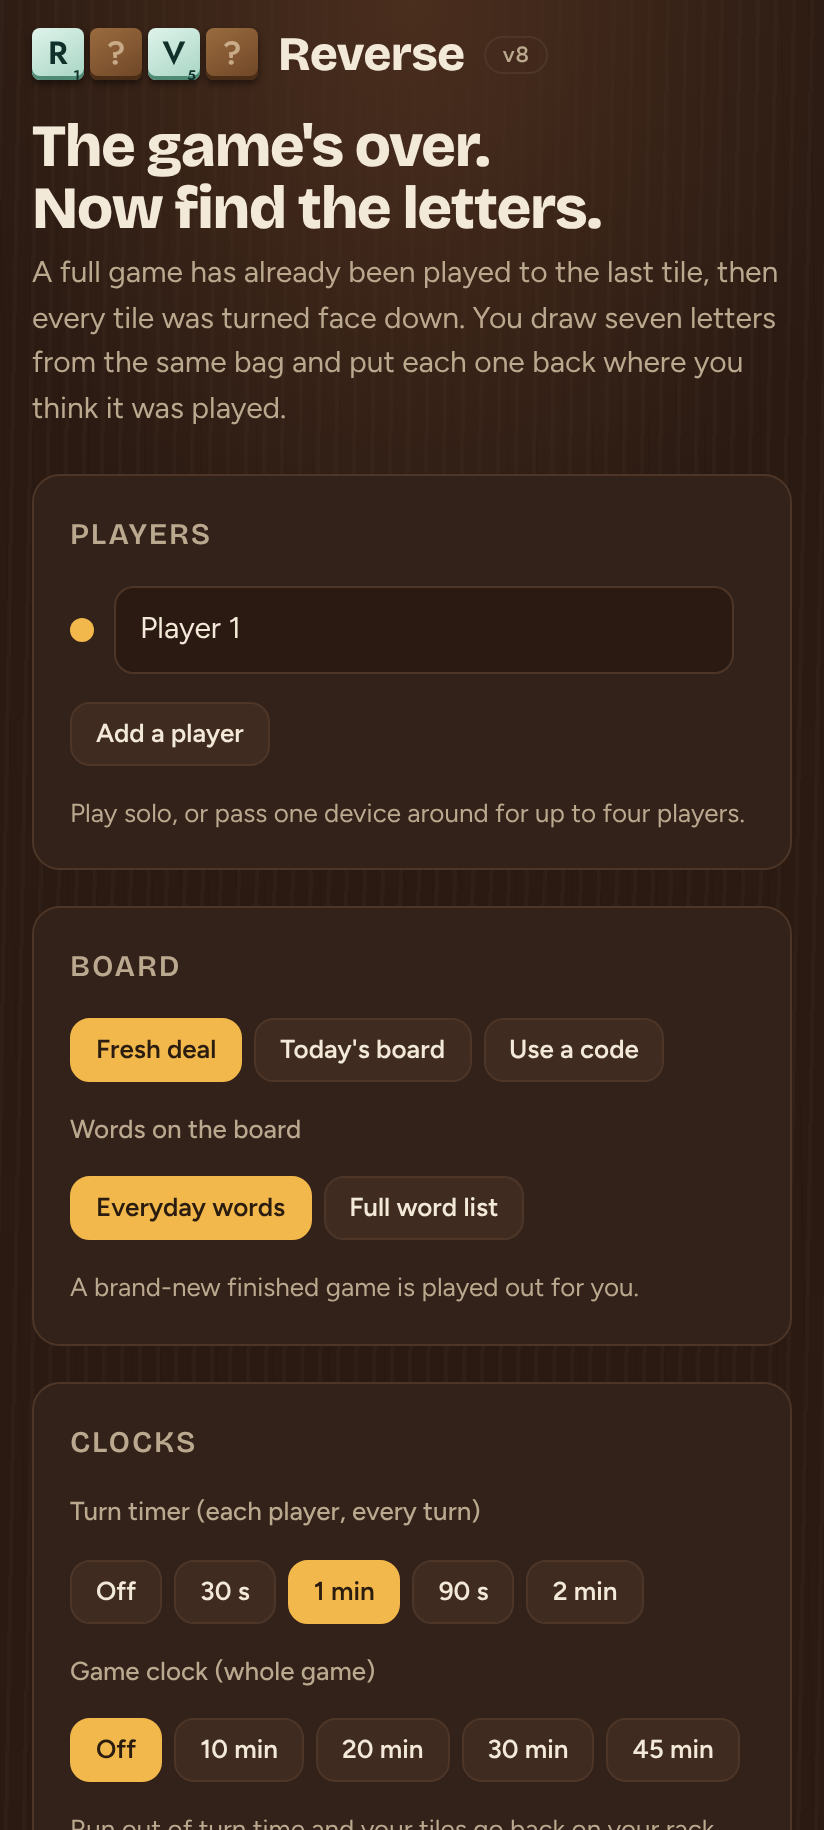
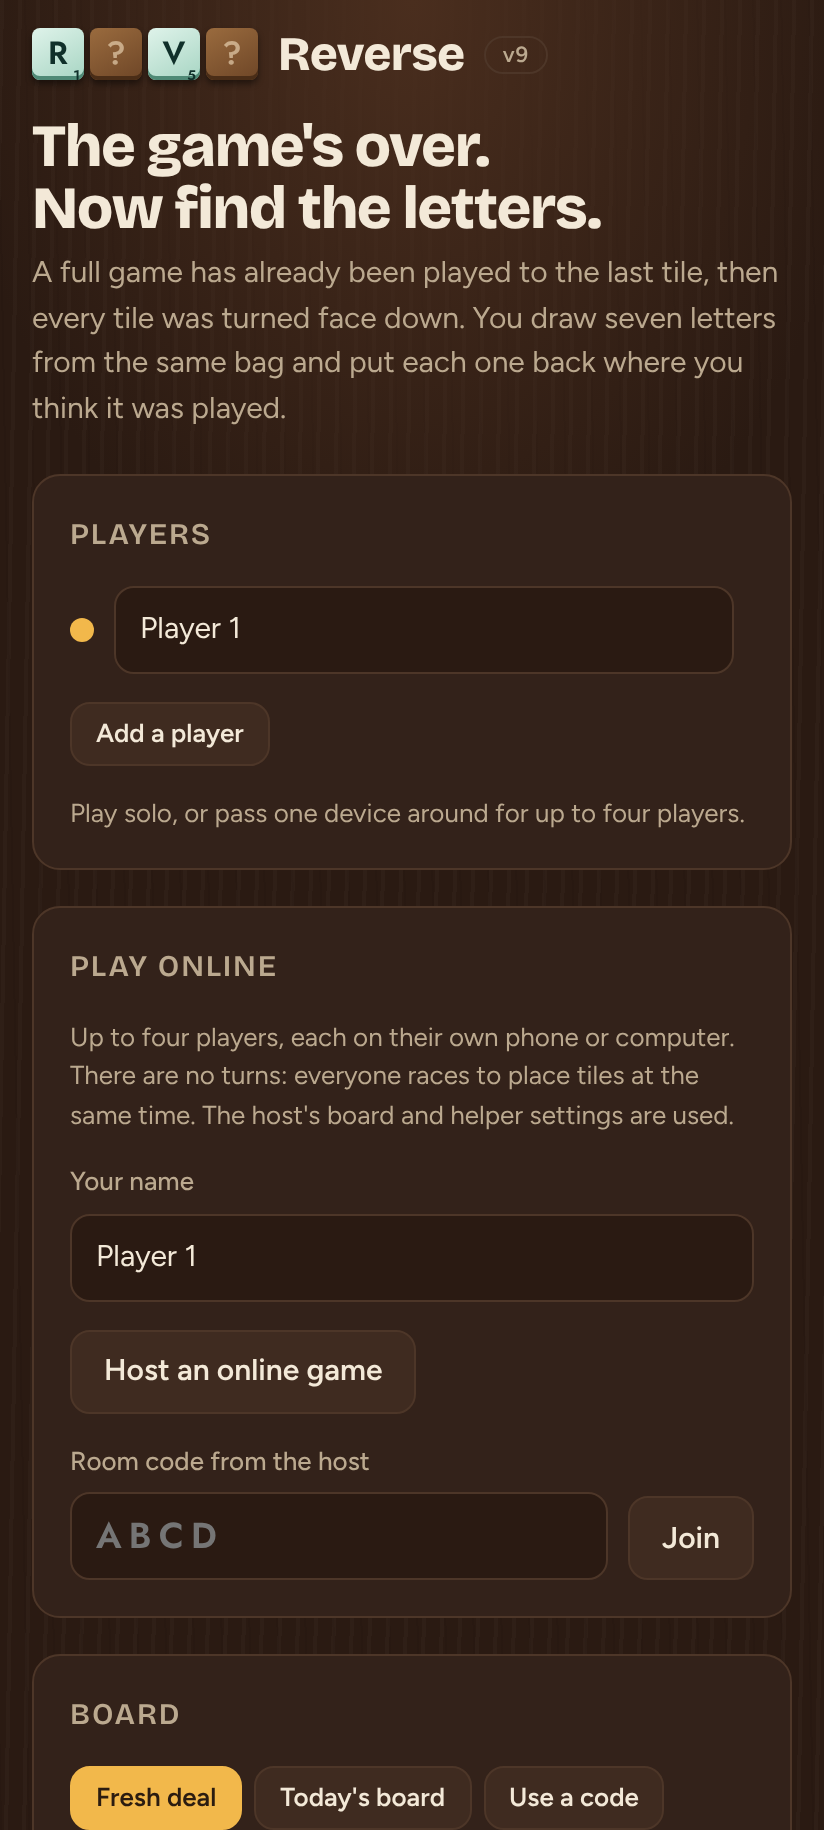
Green letter squares, a config.js for colours and settings, and a Focus toggle (v9)
- 3L is emerald and 2L lime, so letter squares no longer blend into the
  brown tile backs.
- New config.js: colours (table, board, bonus squares, tiles, tile backs),
  letter values, scoring, timer choices and focus strength. Missing or bad
  values fall back to the built-in defaults; the board generator keeps its
  own values so board codes don't change. Bundled into the Android build.
- Focus button under the board (or F) fades bonus squares, their labels and
  the side panels so the letters and tile backs stand out; remembered per device.

Claude-Session: https://claude.ai/code/session_01ViRarTws4VbgujxtyNyeFQ

diff --git a/index.html b/index.html
@@ -14,10 +14,11 @@
 :root {
   --table: #2a1a12; --table-glow: #4a2e1e; --grain: rgba(255,240,220,.025); --grain-dark: rgba(0,0,0,.06);
   --ink: #f3e9d8; --muted: #bba98f; --line: #4d3628; --panel: #33221a; --panel-2: #3f2b20;
-  /* Slate-grey board. Bonus squares: purples for word squares, oranges/golds for letter squares. */
+  /* Slate-grey board. Bonus squares: purples for word squares, greens for letter squares (clear of the brown tile backs).
+     config.js can override any of these. */
   --frame: #4a4e55; --frame-edge: #2e3136; --cell: #a9adb3; --cell-ink: #3c4046;
-  --tw: #5b3d9a; --dw: #b9a6e6; --tl: #c8641f; --dl: #ecc66a;
-  --tw-ink: #f4eeff; --dw-ink: #2f1d5c; --tl-ink: #fff3e8; --dl-ink: #4f3a07;
+  --tw: #5b3d9a; --dw: #b9a6e6; --tl: #1d8a5c; --dl: #c9e46e;
+  --tw-ink: #f4eeff; --dw-ink: #2f1d5c; --tl-ink: #eafff4; --dl-ink: #2f3d06;
   --tile-1: #dff3ea; --tile-2: #a7d5c3; --tile-ink: #10302a; --tile-edge: #4f8a76; --blank-ink: #b4502a; /* sea-glass tiles, not the classic beige */
   --back-1: #9a6b3e; --back-2: #6e4627; --back-edge: #4a2d17; --back-ink: rgba(255,236,205,.55);
   --ledge-1: #6a4429; --ledge-2: #3e2717;
@@ -139,6 +140,16 @@ h2 { font-size: 15px; font-weight: 600; letter-spacing: .06em; text-transform: u
 .cell.hover { outline: .4cqw solid var(--accent); outline-offset: -.2cqw; }
 .cell.target { cursor: pointer; }
 .cell.target:hover { filter: brightness(1.12); }
+/* Focus: dim the bonus colours and side panels so only letters and tile backs stand out. */
+body.focus .cell:is(.TW,.DW,.TL,.DL) { background: color-mix(in srgb, var(--cell) calc(100% - var(--focus-bonus, .15) * 100%), var(--pc, var(--cell))); }
+body.focus .cell.TW { --pc: var(--tw); } body.focus .cell.DW { --pc: var(--dw); } body.focus .cell.TL { --pc: var(--tl); } body.focus .cell.DL { --pc: var(--dl); }
+body.focus .cell:is(.TW,.DW,.TL,.DL) { color: color-mix(in srgb, var(--cell-ink) calc(var(--focus-bonus, .15) * 100%), transparent); }
+body.focus .cell.void { opacity: .35; }
+body.focus .tile.down .pm { opacity: var(--focus-bonus, .15); }
+body.focus .board { background: var(--frame-edge); }
+body.focus .side { opacity: var(--focus-side, .45); transition: opacity .2s; }
+body.focus .side:hover, body.focus .side:focus-within { opacity: 1; }
+.zoom-ctl .focus-btn { margin-right: auto; min-width: 0; font-size: 13px; }
 
 .tile { position: absolute; inset: 4%; border-radius: 14%; display: grid; place-items: center;
   background: linear-gradient(150deg, var(--tile-1) 10%, var(--tile-2));
@@ -356,7 +367,8 @@ h2 { font-size: 15px; font-weight: 600; letter-spacing: .06em; text-transform: u
         <div class="turnline" id="turnline"></div>
         <div class="board-wrap">
           <div class="board-view" id="boardView"><div class="board-inner" id="boardInner"><div class="board" id="board"></div></div></div>
-          <div class="zoom-ctl" role="group" aria-label="Board zoom">
+          <div class="zoom-ctl" role="group" aria-label="Board view">
+            <button class="btn small focus-btn" id="focusBtn" type="button" aria-pressed="false" title="Dim everything but the letters and tile backs (F)">Focus</button>
             <button class="btn small" id="zoomOut" type="button" aria-label="Zoom out" disabled>−</button>
             <output id="zoomPct">100%</output>
             <button class="btn small" id="zoomIn" type="button" aria-label="Zoom in">+</button>
@@ -459,16 +471,33 @@ h2 { font-size: 15px; font-weight: 600; letter-spacing: .06em; text-transform: u
 <div class="feed" id="feed" aria-live="polite"></div>
 <div class="toast" id="toast" hidden></div>
 
+<script src="config.js"></script>
 <script src="gen.js"></script>
 <script>
 // Bump APP_VERSION and version.txt together on every release.
-const APP_VERSION = '8';
+const APP_VERSION = '9';
 const $ = s => document.querySelector(s);
 const esc = s => String(s ?? '').replace(/[&<>"']/g, c => ({'&':'&amp;','<':'&lt;','>':'&gt;','"':'&quot;',"'":'&#39;'}[c]));
 $('#verTag').textContent = $('#footVer').textContent = 'v' + APP_VERSION;
 
+// ---------- Settings from config.js ----------
+const CFG = (typeof window.RTT_CONFIG === 'object' && window.RTT_CONFIG) || {};
+const cfgNum = (v, d, lo = 0) => Number.isFinite(+v) && v !== '' && v !== null && +v >= lo ? +v : d;
+{
+  const map = { table: '--table', panel: '--panel', text: '--ink', accent: '--accent', board: '--frame', boardEdge: '--frame-edge',
+    square: '--cell', squareText: '--cell-ink', word3: '--tw', word3Text: '--tw-ink', word2: '--dw', word2Text: '--dw-ink',
+    letter3: '--tl', letter3Text: '--tl-ink', letter2: '--dl', letter2Text: '--dl-ink', tile: '--tile-1', tileShade: '--tile-2',
+    tileText: '--tile-ink', tileEdge: '--tile-edge', tileBack: '--back-1', tileBackShade: '--back-2', tileBackEdge: '--back-edge' };
+  const root = document.documentElement.style;
+  for (const [k, v] of Object.entries(CFG.colors || {})) if (map[k] && typeof v === 'string' && CSS.supports('color', v)) root.setProperty(map[k], v);
+  root.setProperty('--focus-bonus', Math.min(1, cfgNum(CFG.focus?.bonusSquares, .15)));
+  root.setProperty('--focus-side', Math.min(1, cfgNum(CFG.focus?.sidePanels, .45)));
+}
+
 // ---------- Rules data ----------
-const VALUES = RSGen.VALUES;
+// Letter values: the game's own, with any changes from config.js (the board generator keeps its own so board codes don't change).
+const VALUES = { ...RSGen.VALUES };
+for (const [ch, v] of Object.entries(CFG.letterValues || {})) if (/^[A-Z]$/.test(ch)) VALUES[ch] = Math.round(cfgNum(v, VALUES[ch]));
 const N = RSGen.N, SIZE = RSGen.SIZE, START = RSGen.START, RACK = 7;
 const PREM = new Array(SIZE).fill('');
 function mark(type, base) {
@@ -483,9 +512,10 @@ mark('DL', [[0,7],[1,4],[2,7],[4,4],[5,7]]);
 // How each bonus square is labelled on the board.
 const PLABEL = { TW: '3W', DW: '2W', TL: '3L', DL: '2L' };
 const SEATS = ['var(--seat-0)','var(--seat-1)','var(--seat-2)','var(--seat-3)'];
-const SWEEP = 50, PEEK_COST = 10, STREAK_STEP = 10;
-const TURN_OPTS = [[0, 'Off'], [30, '30 s'], [60, '1 min'], [90, '90 s'], [120, '2 min']];
-const GAME_OPTS = [[0, 'Off'], [10, '10 min'], [20, '20 min'], [30, '30 min'], [45, '45 min']];
+const SWEEP = cfgNum(CFG.scoring?.cleanSweep, 50), PEEK_COST = cfgNum(CFG.scoring?.peekCost, 10), STREAK_STEP = cfgNum(CFG.scoring?.streakStep, 10);
+const cfgList = (v, d) => { const a = Array.isArray(v) ? [...new Set(v.map(x => Math.round(+x)).filter(x => Number.isFinite(x) && x >= 0))] : []; return a.length ? a : d; };
+const TURN_OPTS = cfgList(CFG.timers?.turnSeconds, [0, 30, 60, 90, 120]).map(s => [s, !s ? 'Off' : s % 60 ? s + ' s' : s / 60 + ' min']);
+const GAME_OPTS = cfgList(CFG.timers?.gameMinutes, [0, 10, 20, 30, 45]).map(m => [m, m ? m + ' min' : 'Off']);
 const letterMult = i => PREM[i] === 'DL' ? 2 : PREM[i] === 'TL' ? 3 : 1;
 const wordMult = i => PREM[i] === 'DW' ? 2 : PREM[i] === 'TW' ? 3 : 1;
 
@@ -513,7 +543,7 @@ const RULES = [
 $('#rulesList').innerHTML = RULES.map(r => `<li>${r}</li>`).join('');
 
 // ---------- Setup ----------
-const prefs = Object.assign({ players: ['Player 1'], board: 'new', words: 'E', turnSec: 60, gameMin: 0, opener: true, firsts: false, notes: true, peek: true, streak: true }, store.get('rtt-prefs') || {});
+const prefs = Object.assign({ players: ['Player 1'], board: 'new', words: 'E', turnSec: cfgNum(CFG.timers?.defaultTurnSeconds, 60), gameMin: 0, opener: true, firsts: false, notes: true, peek: true, streak: true }, store.get('rtt-prefs') || {});
 function savePrefs() { store.set('rtt-prefs', prefs); }
 function renderSetup() {
   $('#playerList').innerHTML = prefs.players.map((n, k) => `
@@ -852,6 +882,15 @@ function showPause() {
   $('#unpauseBtn').focus();
 }
 $('#unpauseBtn').addEventListener('click', () => setPaused(false));
+
+// Focus: dim bonus squares and side panels. Remembered on this device.
+function setFocus(on) {
+  document.body.classList.toggle('focus', on);
+  $('#focusBtn').setAttribute('aria-pressed', on);
+  store.set('rtt-focus', on);
+}
+$('#focusBtn').addEventListener('click', () => setFocus(!document.body.classList.contains('focus')));
+setFocus(!!store.get('rtt-focus'));
 $('#turnline').addEventListener('click', e => { if (e.target.closest('[data-act="pause"]')) setPaused(true); });
 
 // ---------- Clocks ----------
@@ -1336,6 +1375,7 @@ $('#board').addEventListener('click', e => {
 });
 document.addEventListener('keydown', e => {
   if ((e.key === 'p' || e.key === 'P') && !e.target.closest('input') && G && !G.over && G.phase === 'turn') { setPaused(!G.paused); return; }
+  if ((e.key === 'f' || e.key === 'F') && !e.target.closest('input') && !e.ctrlKey && !e.metaKey) { setFocus(!document.body.classList.contains('focus')); return; }
   if (G?.paused) return;
   if (e.key === 'Escape') { if (S.peekMode || S.swapMode || S.selected) { S.peekMode = false; S.swapMode = false; S.selected = null; render(); } }
   else if (e.key === 'Enter' && G?.phase === 'turn' && S.pend.size && !e.target.closest('button,input')) checkMove();

diff --git a/config.js b/config.js
@@ -1,0 +1,61 @@
+// Reverse Tile Table settings.
+//
+// Change a value, save this file and reload the game. Colours are any CSS colour: '#3a7bd5', 'teal',
+// 'rgb(40, 120, 90)'. Delete a line (or the whole file) and the game goes back to its built-in default.
+//
+// Online games: every player's copy of the game should use the same letterValues and scoring,
+// or their scores will be worked out differently.
+window.RTT_CONFIG = {
+  colors: {
+    // The table and side panels
+    table: '#2a1a12',
+    panel: '#33221a',
+    text: '#f3e9d8',
+    accent: '#f2b84b',          // turn pill, selected tile, buttons
+
+    // The board
+    board: '#4a4e55',           // frame around the squares
+    boardEdge: '#2e3136',
+    square: '#a9adb3',          // plain squares
+    squareText: '#3c4046',
+
+    // Bonus squares (background, then label colour)
+    word3: '#5b3d9a',   word3Text: '#f4eeff',    // 3W
+    word2: '#b9a6e6',   word2Text: '#2f1d5c',    // 2W
+    letter3: '#1d8a5c', letter3Text: '#eafff4',  // 3L
+    letter2: '#c9e46e', letter2Text: '#2f3d06',  // 2L
+
+    // Face-up tiles
+    tile: '#dff3ea',
+    tileShade: '#a7d5c3',
+    tileText: '#10302a',
+    tileEdge: '#4f8a76',
+
+    // Face-down tiles (the backs)
+    tileBack: '#9a6b3e',
+    tileBackShade: '#6e4627',
+    tileBackEdge: '#4a2d17',
+  },
+
+  // Points per letter. Only list the letters you want to change, e.g. { Q: 8, Z: 8 }.
+  // Leave it empty to use the game's own values (Q, Z, J 9 · X 8 · K 6 · B, F, V, W 5 · ...).
+  letterValues: {},
+
+  scoring: {
+    cleanSweep: 50,             // bonus for getting all seven tiles right in one turn
+    peekCost: 10,               // points a peek costs
+    streakStep: 10,             // hot streak bonus grows by this much each perfect turn
+  },
+
+  timers: {
+    turnSeconds: [0, 30, 60, 90, 120],    // turn timer choices on the setup screen (0 = off)
+    defaultTurnSeconds: 60,
+    gameMinutes: [0, 10, 20, 30, 45],     // game clock choices (0 = off)
+  },
+
+  // The Focus button dims the board so only the letters and tile backs stand out.
+  focus: {
+    bonusSquares: 0.15,         // how visible bonus colours and labels stay (0 = hidden, 1 = normal)
+    sidePanels: 0.45,           // how visible the side panels stay
+  },
+};

diff --git a/scripts/build-web.js b/scripts/build-web.js
@@ -5,7 +5,7 @@ const root = path.join(__dirname, '..'), out = path.join(root, 'www');
 
 fs.rmSync(out, { recursive: true, force: true });
 fs.mkdirSync(path.join(out, 'fonts'), { recursive: true });
-for (const f of ['gen.js', 'gen-worker.js', 'peerjs.min.js', 'common.txt', 'words.txt', 'privacy.html']) fs.copyFileSync(path.join(root, f), path.join(out, f));
+for (const f of ['config.js', 'gen.js', 'gen-worker.js', 'peerjs.min.js', 'common.txt', 'words.txt', 'privacy.html']) fs.copyFileSync(path.join(root, f), path.join(out, f));
 
 const fonts = [
   ['Bricolage Grotesque', 'bricolage-grotesque', [600, 800]],

diff --git a/README.md b/README.md
@@ -28,6 +28,8 @@ A crossword tile game played backwards. A full game has already been played to t
 - Tiles played as **blanks** in the finished game start face up as free clues.
 - **Still face down** tracker: counts of every letter still hidden that isn't on your rack.
 
+- **Focus**: the Focus button under the board (or the F key) fades the bonus squares, their labels and the side panels, so only the letters and the tile backs stand out. Your device remembers whether it's on.
+
 ### Boards
 
 - **Fresh deal**: a brand-new finished game.
@@ -42,7 +44,8 @@ This game's board, bag and values are its own:
 - The board is **16 × 16**. There's no single middle square, so the first word of the finished game covers one of the four ◆ diamond start squares in the middle.
 - Bonus squares are labelled **2L / 3L** (letter ×2 / ×3) and **2W / 3W** (word ×2 / ×3), in this game's own layout.
 - The bag holds **112 tiles** (including 2 blanks).
-- Face-up tiles are sea-glass green.
+- Face-up tiles are sea-glass green, on a slate-grey board.
+- Bonus colours: **3W** deep purple, **2W** lilac, **3L** emerald, **2L** lime.
 - Letter values: A E I N O R S T 1 · D L U 2 · C G H M P Y 3 · B F V W 5 · K 6 · X 8 · J Q Z 9. No letter is worth 4 or 10.
 
 Play solo, or pass one device around for 2 to 4 players. Your game is saved in the browser, so a reload picks up where you left off.
@@ -60,6 +63,18 @@ Each player uses their own phone or computer, and there are **no turns**: everyo
 
 How it works: devices connect directly to each other over WebRTC using [PeerJS](https://peerjs.com/) (`peerjs.min.js`, MIT licence). The free public PeerJS server only introduces the devices. The host's device is the referee: it holds the bag and racks, scores each Check in the order they arrive, and sends everyone the result. A few networks (some mobile carriers and office firewalls) block direct connections. Fixing that needs a relay (TURN) server. For testing, `?peer=127.0.0.1:9000` points the game at your own PeerJS server.
 
+## Changing colours and settings
+
+Open `config.js`, change a value, save, and reload the game. You can change:
+
+- **colors**: the table, the board, every bonus square and its label, face-up tiles and tile backs. Any CSS colour works (`'#3a7bd5'`, `'teal'`).
+- **letterValues**: points for any letter, e.g. `{ Q: 8 }`. The board generator keeps the built-in values, so board codes still make the same boards.
+- **scoring**: clean sweep bonus, peek cost, hot streak step.
+- **timers**: the turn timer and game clock choices on the setup screen, and the default turn time.
+- **focus**: how faint the bonus squares and side panels go in Focus mode.
+
+Delete a line, or the whole file, to go back to the default. For online games every player's copy should use the same `letterValues` and `scoring`. The Android app bundles `config.js` when it's built, so rebuild the app after changing it.
+
 ## Android app
 
 The game is also packaged as an Android app for Google Play. [ANDROID.md](ANDROID.md) has every step, from trying it on your phone to publishing.
@@ -72,6 +87,7 @@ The game is also packaged as an Android app for Google Play. [ANDROID.md](ANDROI
 
 - `index.html` - the whole game (rules, scoring, board, timers)
 - `peerjs.min.js` - PeerJS 1.5.5, loaded only when you play online
+- `config.js` - colours and other settings you can change
 - `gen.js` - finished-board generator (also runs under Node for testing)
 - `gen-worker.js` - runs the generator off the main thread
 - `common.txt` - everyday words: common English words that are also in ENABLE, plus all two-letter words
